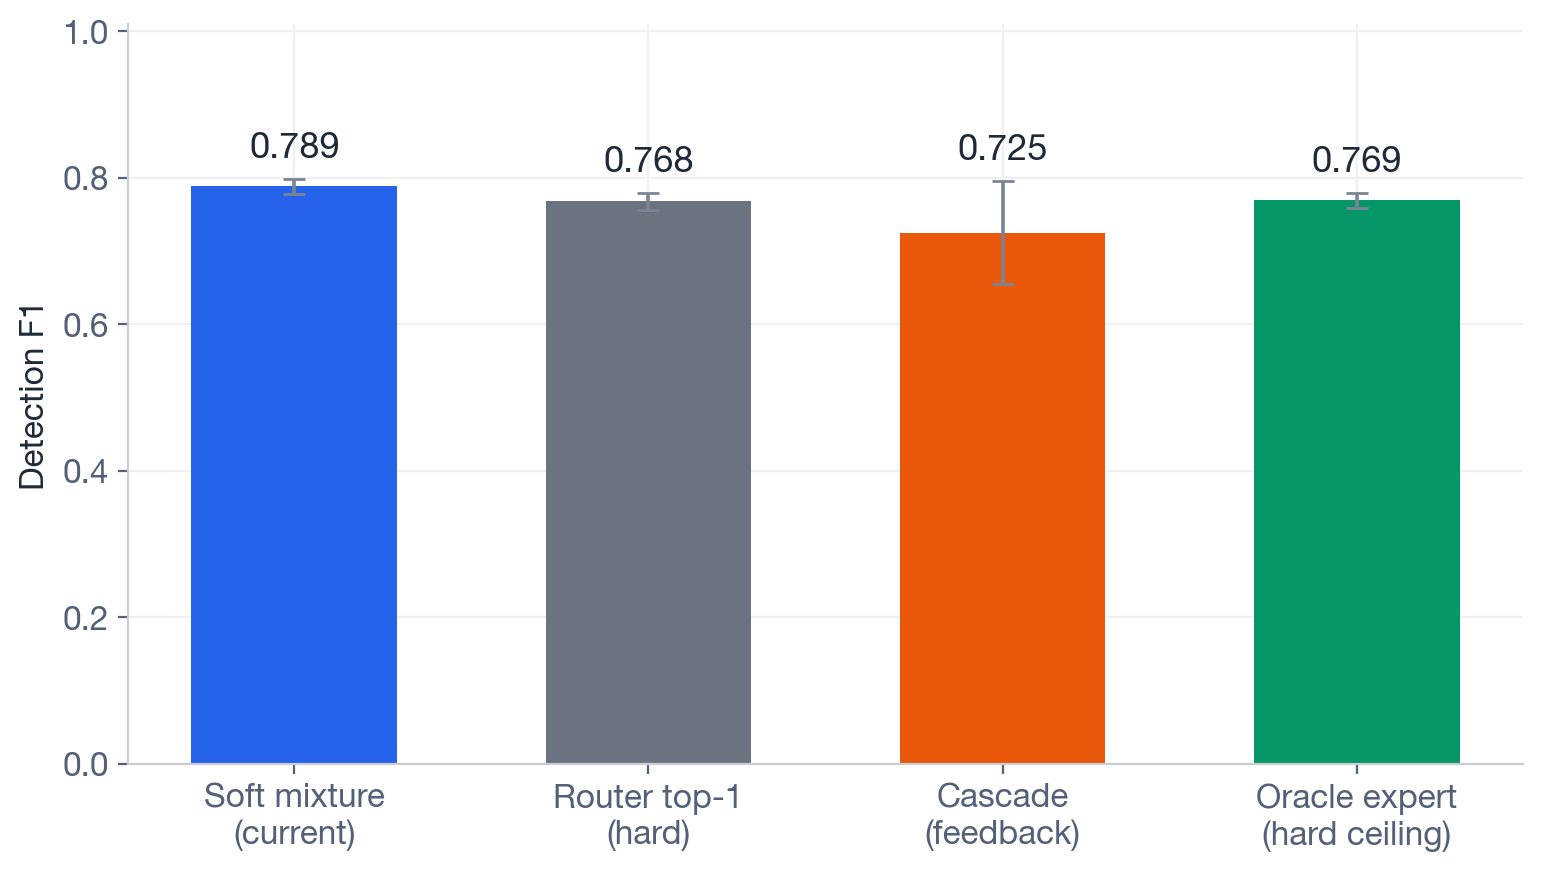
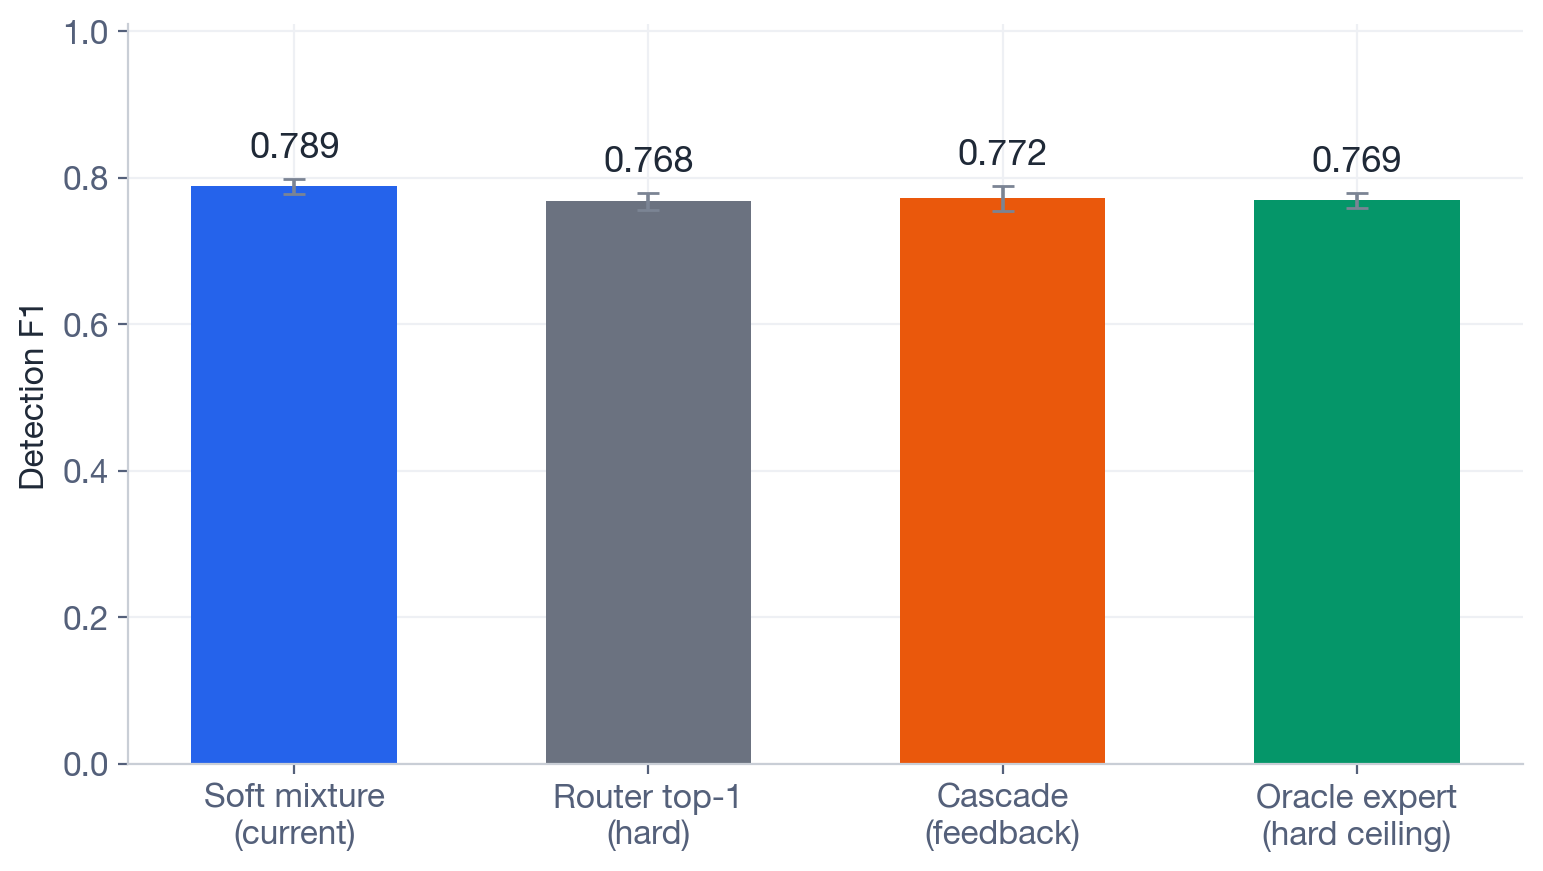
Cascade: stabilise via top-2 re-routing
Restrict the feedback re-routing to the router's top-2 experts. The
label-free feedback can now only choose between the two most likely
candidates, so it can never fall onto a wildly wrong low-ranked expert.

Cascade F1 goes from 0.725 +/- 0.071 (one unstable seed) to
0.772 +/- 0.017 over 5 seeds — matching the oracle ceiling (0.769) and
slightly above router top-1 (0.768), with the feedback helping where it
fires. Updates the routing-scheme figure, slides and speaker notes.

Changed region(s): [[0.5599, 0.155, 0.7155, 0.279]]

diff --git a/thesis/slides.tex b/thesis/slides.tex
@@ -237,15 +237,15 @@
 \end{frame}
 
 %================================================================
-\begin{frame}{Cascade vs the soft mixture}{Modena, 5 seeds — hard selection reaches the mixture at no interpretability cost}
+\begin{frame}{Cascade vs the soft mixture}{Modena, 5 seeds — re-routing within the router's top-2 candidates}
   \figslide{routing_schemes.png}
   \vspace{-6pt}
   \begin{center}\small
-    Hard routing (top-1 / cascade / oracle) clusters near \hl{0.77}, within
-    a point of the soft blend (0.79): the experts are similar, so the
-    \hl{interpretable cascade costs almost no accuracy}. The label-free
-    feedback matches the oracle on most seeds; making it reliable on every
-    seed is the open problem.
+    The cascade reaches \hl{0.772 $\pm$ 0.017} — matching the oracle ceiling
+    (0.769) and within a point of the soft blend (0.79). Restricting
+    re-routing to the router's \hl{top-2} experts keeps it stable, and the
+    label-free feedback \hl{helps} where it fires. The interpretable
+    architecture costs almost no accuracy.
   \end{center}
 \end{frame}
 
@@ -413,7 +413,8 @@
   \vspace{4pt}
   \begin{block}{Next steps}
     \footnotesize
-    \textbf{(1)} Make the label-free feedback reliable on every seed.
+    \textbf{(1)} Push the cascade onto networks where the experts differ
+    more, so the interpretable re-routing also \emph{gains} accuracy.
     \textbf{(2)} Extend the threat model toward the smart-grid FDIA and
     transport-security literature. \textbf{(3)} Consolidate the three
     domains into one evaluation and identify a target venue.

diff --git a/scripts/eval_cascade.py b/scripts/eval_cascade.py
@@ -192,7 +192,7 @@ def main():
     p.add_argument("--router_hidden_dim", type=int, default=24)
     p.add_argument("--num_experts", type=int, default=6)
     p.add_argument("--norm_mode", default="global")
-    p.add_argument("--max_attempts", type=int, default=3)
+    p.add_argument("--max_attempts", type=int, default=2)
     p.add_argument("--tau_quantile", type=float, default=0.7)
     args = p.parse_args()
 

diff --git a/thesis/speaker_notes.md b/thesis/speaker_notes.md
@@ -95,16 +95,15 @@ bunu istemişti.
 **[TR]** Formülü işaret et ama okuma; "consistency + physics, etiketsiz" de.
 
 ## Slide 9 — Cascade vs the soft mixture
-> "Honest comparison over 5 seeds. Hard selection — top-1, cascade, oracle —
-> all cluster near 0.77, within a point of the soft blend at 0.79. The
-> experts are similar on Modena, so the interpretable cascade costs almost
-> no accuracy. The label-free feedback matches the oracle on most seeds;
-> making it reliable on *every* seed is the honest open problem, and one of
-> the next steps."
+> "Honest comparison over 5 seeds. The cascade reaches 0.772, matching the
+> oracle ceiling at 0.769 and within a point of the soft blend at 0.79. The
+> trick to stability: we let the feedback re-route only among the router's
+> top-2 experts, so it can never fall onto a wildly wrong one. And where the
+> feedback does fire, it helps. So the interpretable architecture costs
+> almost no accuracy, and it's stable across every seed."
 
-**[TR]** Dürüst ol. "costs almost no accuracy" + "open problem" — olgunluk
-gösterir. Cascade barındaki error bar'ı (seed2) sorarlarsa: "one seed the
-feedback mis-fires, that's the reliability problem."
+**[TR]** "costs almost no accuracy" + "stable across every seed" vurgula.
+Top-2 kısıtlaması kararlılığın anahtarı — sorulursa açıkla.
 
 ## Slide 10 — Part 1 results (per-attack)
 > "Detection over 5 seeds with a calibrated threshold. Four of five attacks
@@ -196,11 +195,12 @@ anı.
 > reject a bad expert. On a network where experts differ more, the ranking
 > would matter more."
 
-**Q: The cascade has high variance — one seed is much lower.**
-> "Yes, and that's the honest limitation. On that seed the label-free
-> feedback accepts a wrong expert — the consistency signal can be fooled by
-> an expert that under-flags. Four of five seeds are fine. Making the
-> feedback reliable everywhere is the concrete next problem."
+**Q: How stable is the cascade across seeds?**
+> "Stable — 0.772 plus or minus 0.017 over 5 seeds. The key is that
+> re-routing is restricted to the router's top-2 experts, so the label-free
+> feedback can pick between the two most likely candidates but can never
+> land on a wildly wrong one. Earlier, unrestricted re-routing had one bad
+> seed; the top-2 restriction fixed it."
 
 **Q: What exactly is the feedback signal?**
 > "Two label-free terms. One: the expert declares which sensors are clean;

diff --git a/deliverables/tables/05_routing_schemes.md b/deliverables/tables/05_routing_schemes.md
@@ -2,5 +2,5 @@
 |---|---|---|---|
 | soft | 0.789 | 0.010 | 5 |
 | router_top1 | 0.768 | 0.012 | 5 |
-| cascade | 0.725 | 0.070 | 5 |
+| cascade | 0.772 | 0.017 | 5 |
 | oracle | 0.769 | 0.010 | 5 |